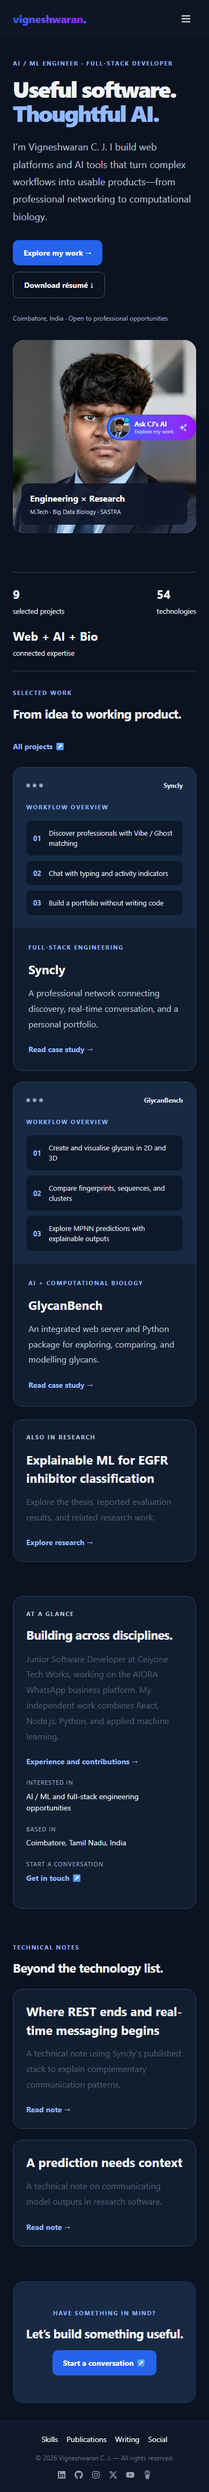
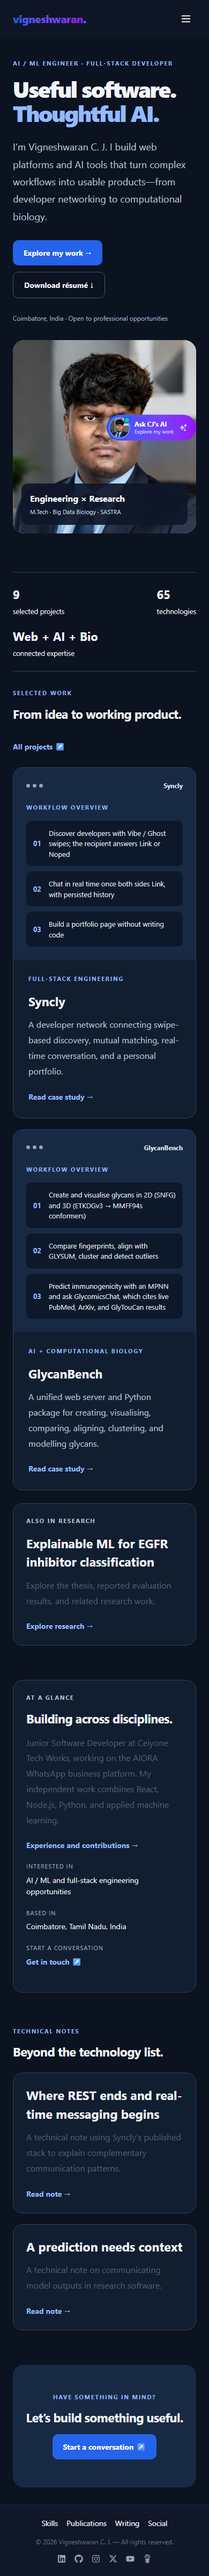
feat: update resume content and project descriptions for clarity and accuracy

Changed region(s): [[0.0615, 0.0, 0.9538, 1.0]]

diff --git a/src/data/experience.js b/src/data/experience.js
@@ -7,30 +7,30 @@ export const roles = [
     type: "Full-time",
     accent: "blue",
     overview:
-      "Designing, developing, and maintaining enterprise-grade applications and AI-powered platforms — including AIORA, a multi-tenant WhatsApp business platform (bookings, storefronts, and n8n-driven AI conversations). Work spans backend APIs, WhatsApp automation, cloud deployments, AI/LLM integration, and internal monitoring systems. Also mentoring 2 engineering interns on the AIORA platform.",
+      "Designing, developing, and maintaining enterprise-grade applications and AI-powered platforms — including AIORA, a multi-tenant WhatsApp business platform of 14 services (bookings, storefronts, and n8n-driven AI conversations) running on a shared VPS under systemd/PM2 behind nginx, with Render- and Railway-hosted front ends. Work spans backend APIs, WhatsApp automation, cloud deployments, AI/LLM integration, and internal monitoring systems. Also mentoring 2 engineering interns on the AIORA platform.",
     projects: [
       {
         name: "Bullion Handler",
-        subtitle: "AI Document Processing Platform",
+        subtitle: "AI Document Validation Engine",
         description:
-          "Core platform for document ingestion, OCR extraction, AI analysis, validation, report generation, and OpenAI token usage tracking.",
-        tech: ["Python", "FastAPI", "PostgreSQL", "OpenAI"],
+          "FastAPI service that reads gold-shipment AWB and invoice PDFs with GPT-4o vision, runs a two-stage rules engine (Stage 1 checks the invoice alone — weight, purity, calculations; Stage 2 compares it against its matched AWB), and produces bilingual EN/ES PDF reports delivered by email. PostgreSQL for records, Redis Streams/Pub-Sub for job pickup and SHA-256 dedup.",
+        tech: ["Python", "FastAPI", "OpenAI GPT-4o", "PostgreSQL", "Redis", "ReportLab", "systemd"],
         accent: "teal",
       },
       {
         name: "Bullion Listener",
-        subtitle: "Event-Driven Processing Service",
+        subtitle: "WhatsApp Document Intake Bot",
         description:
-          "Event listener service that monitors incoming events, validates payloads, and triggers downstream Bullion Handler processing pipelines asynchronously.",
-        tech: ["Python", "FastAPI", "PostgreSQL"],
+          "Node.js WhatsApp bot bridging group chats and Bullion Handler — saves incoming PDFs to the shared filesystem, hands them to the Python service via HTTP/n8n, and watches report directories with chokidar to deliver finished reports back to the originating group.",
+        tech: ["Node.js", "whatsapp-web.js", "Chokidar", "Redis", "PM2"],
         accent: "sky",
       },
       {
         name: "Splendor",
-        subtitle: "OpenAI Token & Subscription Monitor",
+        subtitle: "AI Token Quota & Subscription API",
         description:
-          "Centralized platform tracking prompt/completion/total token usage per model and API key, managing subscription quotas, and sending WhatsApp alert notifications.",
-        tech: ["Python", "FastAPI", "PostgreSQL", "WhatsApp API"],
+          "Express 5 REST API that meters AI token consumption and subscription quotas per client/agent, enforces plan limits, and fires low-balance WhatsApp alerts through Oblion with a 4-hour cooldown. OpenAPI docs served at /api-docs.",
+        tech: ["Node.js", "Express.js", "PostgreSQL", "Joi", "Winston", "Swagger/OpenAPI", "Docker", "PM2"],
         accent: "violet",
       },
       {
@@ -38,7 +38,7 @@ export const roles = [
         subtitle: "WhatsApp Auth & Session Manager",
         description:
           "Multi-number WhatsApp gateway — one whatsapp-web.js session per business number, BullMQ-queued outbound sends with retries and a dead-letter queue, and HMAC-signed inbound webhooks feeding n8n.",
-        tech: ["TypeScript", "Node.js", "Express.js", "BullMQ", "Redis", "PostgreSQL", "WhatsApp Web API", "n8n"],
+        tech: ["TypeScript", "Node.js", "Express.js", "BullMQ", "Redis", "PostgreSQL", "Zod", "whatsapp-web.js", "n8n"],
         accent: "green",
       },
       {
@@ -61,24 +61,24 @@ export const roles = [
         name: "polaris-ui",
         subtitle: "AIORA Operator Dashboard",
         description:
-          "Business-owner dashboard for bookings, orders, inventory, bot settings, document uploads, broadcast campaigns, and WhatsApp session status — fans out to meridian-api, Oblion, and ecomm-api, proxying e-commerce calls server-side so the API key never reaches the browser.",
-        tech: ["React 19", "Vite", "Tailwind CSS", "Node.js"],
+          "Business-owner dashboard fanning out to four backends (healthora-api, meridian-api, Oblion, ecomm-api) — bookings, orders, inventory, bot settings, document uploads, broadcast campaigns, WhatsApp session status, a Shiprocket connection page, and a home dashboard of revenue, booking/order status, low-stock and campaign charts. E-commerce calls are proxied server-side so the API key never reaches the browser.",
+        tech: ["React 19", "TypeScript", "Vite", "Tailwind CSS", "Axios", "Node.js", "Railway"],
         accent: "pink",
       },
       {
         name: "AIORA E-Commerce",
         subtitle: "Multi-Store WhatsApp Commerce Platform",
         description:
-          "Next.js storefront platform where several shops can share one WhatsApp number — catalogue, orders with idempotency keys, storefront config, and a customer directory upserted from inbound WhatsApp messages, with order confirmations dispatched via Oblion.",
-        tech: ["Next.js", "React", "TypeScript", "PostgreSQL"],
+          "Next.js 16 multi-store platform where several shops share one WhatsApp number — catalogue, orders with idempotency keys, storefront config, a customer directory upserted from inbound WhatsApp, order confirmations via Oblion, and per-client Shiprocket shipping: orders sync when marked ready, a deduplicated webhook normalises ~30 courier statuses into 8, and customers get shipped / out-for-delivery / delivered WhatsApp updates. Credentials stored AES-256-GCM.",
+        tech: ["Next.js 16", "React 19", "TypeScript", "PostgreSQL", "Tailwind CSS", "Shiprocket API"],
         accent: "slate",
       },
       {
         name: "Client Onboarding Portal",
         subtitle: "Internal Client & Agent Provisioning Tool",
         description:
-          "Operator tool that provisions a client and all of its WhatsApp agents (booking, storefront, or both) in a single all-or-nothing transaction — client, agents, subscription limits, WhatsApp status, intake questions, and seeded slots either all land or none do.",
-        tech: ["React", "Vite", "Node.js", "Express.js", "PostgreSQL", "Zod"],
+          "Operator tool that provisions a client and all of its WhatsApp agents (booking, storefront, or both) in a single all-or-nothing transaction — client, agents, subscription limits, WhatsApp status, intake questions, seeded slots, storefronts, and optional Shiprocket config either all land or none do; a failure names the module that broke.",
+        tech: ["React 18", "Vite", "shadcn/ui", "Node.js", "Express.js", "PostgreSQL", "Zod", "Nodemailer"],
         accent: "teal",
       },
       {
@@ -91,10 +91,10 @@ export const roles = [
       },
       {
         name: "Orbit",
-        subtitle: "Centralized Service Health Monitor",
+        subtitle: "Platform Health & OpenAI Balance Monitor",
         description:
-          "Internal monitoring and management dashboard aggregating health checks, system diagnostics, API status, and incident detection across all services.",
-        tech: ["Python", "FastAPI", "ReactJS"],
+          "Express utility service that aggregates health across all AIORA services via GET /api/health/all and scrapes the OpenAI account balance with Playwright for billing visibility.",
+        tech: ["Node.js", "Express.js", "Playwright", "PM2"],
         accent: "orange",
       },
       {
@@ -111,7 +111,7 @@ export const roles = [
       "REST API design with FastAPI & Express.js",
       "PostgreSQL & MongoDB management, query optimisation",
       "Multi-tenant platform design (shared WhatsApp numbers, multi-agent routing)",
-      "Server deployment & production maintenance",
+      "Multi-environment VPS deployment (dev/SIT/prod) with systemd, PM2, nginx and isolated Postgres/Redis",
       "IAM, Secrets Manager, CloudWatch on AWS",
       "Mentoring interns (code review, architecture guidance)",
     ],
@@ -119,10 +119,10 @@ export const roles = [
       Backend: ["Python", "FastAPI", "Node.js", "Express.js", "TypeScript"],
       Frontend: ["ReactJS", "Next.js", "Streamlit"],
       Databases: ["PostgreSQL", "MongoDB", "DynamoDB"],
-      "AI & LLMs": ["OpenAI GPT-4o", "Groq LLaMA"],
-      Automation: ["n8n", "WhatsApp Web API"],
+      "AI & LLMs": ["OpenAI GPT-4o", "Groq"],
+      Automation: ["n8n", "whatsapp-web.js", "Shiprocket API"],
       "Messaging & Queues": ["Redis", "BullMQ"],
-      Cloud: ["AWS Lambda", "API Gateway", "EC2", "CloudWatch", "Secrets Manager"],
+      "Cloud & Ops": ["Hostinger VPS", "systemd", "PM2", "nginx", "Docker", "Render", "Railway", "AWS Lambda", "API Gateway", "EC2", "CloudWatch", "Secrets Manager"],
     },
   },
   {

diff --git a/src/data/showcase.js b/src/data/showcase.js
@@ -1,24 +1,24 @@
 export const caseStudies = {
   syncly: {
     title: "Syncly", index: 0, label: "Full-stack engineering",
-    summary: "A professional network connecting discovery, real-time conversation, and a personal portfolio.",
-    problem: "Professionals across technology, biology, commerce, and IT need a way to discover relevant people and turn introductions into conversations.",
-    role: "Independent full-stack development across the React frontend, REST APIs, real-time messaging, and AWS deployment.",
-    steps: ["Discover professionals with Vibe / Ghost matching", "Chat with typing and activity indicators", "Build a portfolio without writing code"],
-    architecture: ["React + Redux", "Node.js + Socket.IO", "MongoDB", "AWS EC2 + SES"],
-    decisions: ["Use REST APIs for application data and Socket.IO for live conversation events.", "Place a portfolio builder alongside networking so members can show their work.", "Deliver scheduled email summaries to surface activity outside the app."],
-    result: "Delivered matching, real-time chat, a no-code portfolio builder, and scheduled email summaries in a deployed platform.",
+    summary: "A developer network connecting swipe-based discovery, mutual matching, real-time conversation, and a personal portfolio.",
+    problem: "Developers looking for mentors, learners, and collaborators need a low-friction way to discover relevant people and turn an introduction into a working relationship.",
+    role: "Independent full-stack development across the React frontend, Express REST API, Socket.IO messaging, MongoDB data model, and AWS deployment.",
+    steps: ["Discover developers with Vibe / Ghost swipes; the recipient answers Link or Noped", "Chat in real time once both sides Link, with persisted history", "Build a portfolio page without writing code"],
+    architecture: ["React 19 + Redux Toolkit + Vite", "Node.js + Express 5 + Socket.IO", "MongoDB + Mongoose", "AWS EC2 + SES + node-cron"],
+    decisions: ["Use REST for application data and Socket.IO for live chat, with rooms keyed by a hash of the sorted user pair.", "Store credentials and profile as separate documents; auth via an httpOnly, sameSite=Strict JWT cookie.", "Send an email on every swipe and a daily 08:00 reminder so pending Vibes surface outside the app."],
+    result: "Delivered swipe matching, mutual Links, real-time chat, a no-code portfolio page, and email reminders in a deployed platform.",
     caveat: "Usage, latency, and conversion measurements are not published here.",
   },
   glycanbench: {
     title: "GlycanBench", index: 1, label: "AI + computational biology",
-    summary: "An integrated web server and Python package for exploring, comparing, and modelling glycans.",
-    problem: "Glycan research combines structure visualisation, molecular comparison, and predictive modelling. A shared interface brings these workflows together.",
-    role: "Developed under the guidance of Ashok Palaniappan at SASTRA University’s Systems Computational Biology Lab.",
-    steps: ["Create and visualise glycans in 2D and 3D", "Compare fingerprints, sequences, and clusters", "Explore MPNN predictions with explainable outputs"],
-    architecture: ["React interface", "FastAPI services", "RDKit analysis", "PyTorch MPNN"],
-    decisions: ["Offer a web server and Python package for interactive and programmatic work.", "Support several fingerprint families for comparing molecular representations.", "Combine prediction outputs with explanations to support interpretation."],
-    result: "Made glycan creation, visualisation, comparison, clustering, and prediction available through a web server and Python package.",
+    summary: "A unified web server and Python package for creating, visualising, comparing, aligning, clustering, and modelling glycans.",
+    problem: "Answering routine questions about a glycan meant stitching together glycowork, glypy, RDKit, BioPython, and databases such as GlyTouCan, KEGG, and PubMed. One interface and one API bring those workflows together.",
+    role: "Developed under the guidance of Ashok Palaniappan at SASTRA University’s Systems Computational Biology Lab; full-stack build, ML integration, and the Python package.",
+    steps: ["Create and visualise glycans in 2D (SNFG) and 3D (ETKDGv3 → MMFF94s conformers)", "Compare fingerprints, align with GLYSUM, cluster and detect outliers", "Predict immunogenicity with an MPNN and ask GlycomicsChat, which cites live PubMed, ArXiv, and GlyTouCan results"],
+    architecture: ["React 19 + TypeScript + Vite", "FastAPI + Pydantic", "RDKit + glycowork + glypy + BioPython", "PyTorch Geometric MPNN", "Groq LLM + LangChain tools"],
+    decisions: ["Keep scientific logic framework-free in core/ so the same code serves the API, the SDK, and the CLI.", "Surface unsupported conversion paths as explicit notices instead of silent failures.", "Route chat questions through an LLM tool selector with a keyword fallback so external tools degrade gracefully."],
+    result: "Made glycan creation, visualisation, analysis, comparison, alignment, clustering, prediction, and literature chat available through one web server and one Python package, deployed at glycanbench.sastra.edu.",
     caveat: "Model evaluation metrics are not reproduced on this page; consult the project materials for methodology and limitations.",
   },
 };
@@ -32,7 +32,7 @@ export const projectMedia = {
 
 export const articles = [
   { slug: "rest-and-real-time", title: "Where REST ends and real-time messaging begins", project: "syncly", intro: "A technical note using Syncly’s published stack to explain complementary communication patterns.", sections: [
-    ["Two different jobs", "Loading a profile is a request for a resource. A typing indicator is an event that matters while another person is looking at a conversation. REST and Socket.IO serve these different needs in Syncly’s stack."],
+    ["Two different jobs", "Loading a profile is a request for a resource. A new chat message is an event that matters while another person is looking at a conversation. REST and Socket.IO serve these different needs in Syncly’s stack."],
     ["Delivery is only part of the problem", "Persistence, authorisation, reconnect behaviour, and duplicate handling need explicit design in a chat system. A live connection alone does not guarantee that a message has been stored or read. These are useful questions when evaluating messaging architecture."],
     ["Keep the user informed", "Interfaces should distinguish sending, failure, and confirmed delivery. An honest connection status and retry path help users recover when connectivity drops."],
   ]},

diff --git a/src/data/projects.js b/src/data/projects.js
@@ -1,24 +1,24 @@
 export const projects = [
   {
     title: "Syncly",
-    subtitle: "Professional Networking Platform",
+    subtitle: "Developer Networking Platform",
     description:
-      "Full-stack professional networking platform for Tech, Biology, Commerce, and IT professionals — featuring swipe-based matchmaking (Vibe/Ghost), real-time chat via Socket.IO with typing indicators and active user tracking, a custom portfolio builder (no coding required), AWS SES email automation with cron-based daily summaries, and scalable REST APIs deployed on AWS EC2.",
+      "Developer-to-developer networking platform built solo end to end. Members pick a mentorship role (mentor, learner, both) and swipe a paginated feed of developers they have not met — Vibe to connect, Ghost to pass; the recipient replies Link or Noped, and a mutual Link unlocks real-time 1:1 chat over Socket.IO with persisted history. Every member gets a shareable portfolio page at their profile slug (projects, experience, education, certifications, theme, SEO, visibility). httpOnly JWT cookie auth with bcrypt, AWS SES email on every swipe, and a daily 08:00 node-cron reminder for pending Vibes. Loop: Discover → Vibe → Link → Chat → Showcase.",
     link: "https://syncly.co.in",
     github: "https://github.com/vigneshcj001/Syncly_fronend",
     githubBackend: "https://github.com/vigneshcj001/Syncly_Backend",
-    tags: ["React.js", "Node.js", "MongoDB", "Socket.IO", "AWS EC2", "AWS SES", "Redux", "Tailwind CSS"],
+    tags: ["React.js", "Vite", "Redux Toolkit", "Node.js", "Express.js", "MongoDB", "Mongoose", "Socket.IO", "JWT", "AWS SES", "AWS EC2", "Tailwind CSS"],
     accent: "teal",
     category: "Full-Stack",
   },
   {
-    title: "GlycanBench: integrated resource for working with glycans",
-    subtitle: "Glycoinformatics Web-Server · SASTRA University",
+    title: "GlycanBench: a unified resource for working with glycans",
+    subtitle: "Glycoinformatics Web Server + Python Package · SASTRA University",
     description:
-      "Comprehensive glycoinformatics platform and Python package for glycan research — covering creation, 2D/3D visualisation, comparative fingerprint analysis (Morgan r=2/3, AtomPair, Torsion, RDKit), sequence alignment, hierarchical/k-means clustering with outlier detection, and an optimised MPNN model for immunogenicity prediction with explainable outputs. Includes a glycobiology chat interface. Developed under the guidance of Ashok Palaniappan at SASTRA University Systems Computational Biology Lab. Freely available as a web-server and Python package.",
+      "Full-stack glycoinformatics platform and installable Python package (SDK, CLI, server) with eight tool groups behind one React UI and one FastAPI API: Create (click-to-build glycans with SNFG 2D + 3D conformers, Cytoscape.js biosynthetic networks, IUPAC/WURCS/GlycoCT/SMILES conversion), Visualize (2D SNFG, 3Dmol.js, KEGG pathways), Analyse (characterisation, GlyTouCan insight, RDKit descriptors + fingerprints, motif mutation), Compare (Tanimoto over five fingerprints), Align (Needleman-Wunsch with the GLYSUM matrix), Cluster (agglomerative/K-means, elbow, outliers), Predict (PyTorch Geometric MPNN immunogenicity classifier with confidence score and motif flags), and GlycomicsChat (Groq gpt-oss-120b with an LLM tool router over PubMed, ArXiv, GlyTouCan). Developed under Ashok Palaniappan at SASTRA's Systems Computational Biology Lab; free for academic use.",
     link: "https://glycanbench.sastra.edu/",
     github: "https://github.com/APalaniaLab/GlycanBench",
-    tags: ["Python", "FastAPI", "React.js", "PyTorch", "MPNN", "RDKit", "Tailwind CSS"],
+    tags: ["Python", "FastAPI", "React.js", "TypeScript", "PyTorch", "PyTorch Geometric", "MPNN", "RDKit", "glycowork", "LangChain", "Groq", "Tailwind CSS"],
     accent: "blue",
     category: "AI/Research",
   },

diff --git a/src/data/skills.js b/src/data/skills.js
@@ -2,9 +2,9 @@ import {
   SiPython, SiR, SiJavascript, SiTypescript,
   SiPandas, SiNumpy, SiScikitlearn, SiPytorch, SiTensorflow,
   SiReact, SiRedux, SiNextdotjs, SiHtml5, SiCss3, SiTailwindcss, SiBootstrap,
-  SiNodedotjs, SiExpress, SiFlask, SiFastapi, SiStreamlit, SiSocketdotio,
+  SiNodedotjs, SiExpress, SiFlask, SiFastapi, SiStreamlit, SiSocketdotio, SiMongoose,
   SiMongodb, SiOracle, SiAmazondynamodb, SiRedis,
-  SiGooglecloud, SiFirebase,
+  SiGooglecloud, SiFirebase, SiDocker, SiNginx, SiPm2, SiRender, SiRailway,
   SiGit, SiGithub, SiPostman, SiJupyter, SiAdobephotoshop, SiLinux, SiVim, SiArduino, SiMacos, SiN8N,
   SiLangchain, SiOpenai,
 } from "react-icons/si";
@@ -60,6 +60,7 @@ export const skillCategories = [
       { name: "Streamlit",  Icon: SiStreamlit   },
       { name: "Socket.IO",  Icon: SiSocketdotio },
       { name: "BullMQ",     Icon: FaNetworkWired},
+      { name: "Mongoose",   Icon: SiMongoose    },
     ],
   },
   {
@@ -80,6 +81,12 @@ export const skillCategories = [
       { name: "AWS",          Icon: FaAws          },
       { name: "Google Cloud", Icon: SiGooglecloud  },
       { name: "Firebase",     Icon: SiFirebase     },
+      { name: "Docker",       Icon: SiDocker       },
+      { name: "PM2",          Icon: SiPm2          },
+      { name: "systemd",      Icon: SiLinux        },
+      { name: "nginx",        Icon: SiNginx        },
+      { name: "Render",       Icon: SiRender       },
+      { name: "Railway",      Icon: SiRailway      },
       { name: "Cloud",        Icon: AiOutlineCloud },
     ],
   },
@@ -87,7 +94,7 @@ export const skillCategories = [
     name: "AI & LLMs",
     color: "violet",
     skills: [
-      { name: "GPT-4",      Icon: SiOpenai       },
+      { name: "OpenAI GPT-4o", Icon: SiOpenai    },
       { name: "LangChain",  Icon: SiLangchain    },
       { name: "LangGraph",  Icon: FaNetworkWired },
       { name: "Groq",       Icon: FaMicrochip    },
@@ -100,6 +107,9 @@ export const skillCategories = [
     skills: [
       { name: "RDKit",      Icon: FaFlask        },
       { name: "Mordred",    Icon: FaAtom         },
+      { name: "glycowork",  Icon: FaMicroscope   },
+      { name: "PyTorch Geometric", Icon: SiPytorch },
+      { name: "BioPython",  Icon: SiPython       },
       { name: "Glycomics",  Icon: FaMicroscope   },
       { name: "Cytoscape",  Icon: FaNetworkWired },
       { name: "Galaxy",     Icon: FaGlobe        },
@@ -113,6 +123,7 @@ export const skillCategories = [
       { name: "GitHub",     Icon: SiGithub         },
       { name: "n8n",        Icon: SiN8N            },
       { name: "Postman",    Icon: SiPostman        },
+      { name: "Playwright", Icon: FaNetworkWired   },
       { name: "Jupyter",    Icon: SiJupyter        },
       { name: "Linux",      Icon: SiLinux          },
       { name: "Vim",        Icon: SiVim            },

diff --git a/src/data/publications.js b/src/data/publications.js
@@ -1,16 +1,16 @@
 export const publications = [
   {
     id: "glycanbench",
-    title: "GlycanBench: integrated resource for working with glycans",
-    authors: "Vigneshwaran CJ",
+    title: "GlycanBench: a unified resource for working with glycans",
+    authors: "Vigneshwaran CJ & Ashok Palaniappan",
     guide: "Ashok Palaniappan",
     institution: "Systems Computational Biology Lab, SASTRA Deemed University",
-    year: "2025",
+    year: "2026",
     status: "Submitted — Frontiers in Systems Biology",
     type: "Research Paper",
     context: "PG M.Tech · Main Project",
     abstract:
-      "A comprehensive glycoinformatics platform covering glycan creation, 2D/3D visualisation, comparative fingerprint analysis (Morgan, AtomPair, Torsion, RDKit), sequence alignment, hierarchical/k-means clustering with outlier detection, and an optimised MPNN model for immunogenicity prediction with explainable outputs. Freely available as a web-server and Python package for academic and non-profit use.",
+      "A unified glycoinformatics web server and Python package covering glycan creation, 2D/3D visualisation, fingerprint comparison (Morgan, AtomPair, Torsion, RDKit), GLYSUM sequence alignment, hierarchical/k-means clustering with outlier detection, an MPNN immunogenicity classifier with confidence scores and motif flags, and a glycomics chat assistant with live PubMed, ArXiv, and GlyTouCan tools. Freely available for academic and non-profit use.",
     tags: ["Glycomics", "MPNN", "Python", "Bioinformatics", "RDKit"],
     link: "https://glycanbench.sastra.edu/",
     accent: "blue",

diff --git a/src/pages/Home.js b/src/pages/Home.js
@@ -11,7 +11,7 @@ export default function Home() {
   useMeta();
   return <div className="home-page">
     <section className="portfolio-section hero-section">
-      <div><p className="eyebrow">AI / ML engineer · Full-stack developer</p><h1>Useful software.<br /><span>Thoughtful AI.</span></h1><p className="lead">I’m Vigneshwaran C. J. I build web platforms and AI tools that turn complex workflows into usable products—from professional networking to computational biology.</p>
+      <div><p className="eyebrow">AI / ML engineer · Full-stack developer</p><h1>Useful software.<br /><span>Thoughtful AI.</span></h1><p className="lead">I’m Vigneshwaran C. J. I build web platforms and AI tools that turn complex workflows into usable products—from developer networking to computational biology.</p>
         <div className="action-row"><Link className="primary-action" to="/projects">Explore my work →</Link><a className="secondary-action" href="/resume.pdf" download="Vigneshwaran_CJ_Resume.pdf" onClick={() => trackConversion("resume_download", { source: "home", version: "static" })}>Download résumé ↓</a></div>
         <p className="hero-note">Coimbatore, India · Open to professional opportunities</p>
       </div><div className="portrait-wrap"><img src={profilePhoto} width="420" height="480" alt="Vigneshwaran C. J." fetchPriority="high" /><div className="portrait-caption"><strong>Engineering × Research</strong><span>M.Tech · Big Data Biology · SASTRA</span></div></div>

diff --git a/src/pages/Resume.js b/src/pages/Resume.js
@@ -15,7 +15,7 @@ const BACKEND = "https://vigneshwarancj-portfolio-backend.onrender.com";
 
 const FEATURED_PROJECT_TITLES = [
   "Syncly",
-  "GlycanBench: integrated resource for working with glycans",
+  "GlycanBench: a unified resource for working with glycans",
   "Explainable Machine Learning-Based Approach to Developing Potent EGFR Inhibitors for Ovarian Cancer",
   "QSPR for Posaconazole SEDDS",
   "Prediction of lignocellulosic components and fermentable sugars for bioethanol production by machine learning approach",

diff --git a/scripts/build_resume.py b/scripts/build_resume.py
@@ -22,7 +22,7 @@ story += [para('EXPERIENCE','SectionResume')]
 for role in data['work_experience']:
  story += [para(role['role']+' | '+role['company'],'ItemResume'),para(role['period']),para(role['overview'])]
 story += [para('SELECTED PROJECTS','SectionResume')]
-for name in ['Syncly','GlycanBench: integrated resource for working with glycans']:
+for name in ['Syncly','GlycanBench: a unified resource for working with glycans']:
  project=data['projects'].get(name)
  if project:
   story += [para(name,'ItemResume'),para(project.get('description','')),para('Technologies: '+', '.join(project.get('tech_stack',[])))]
